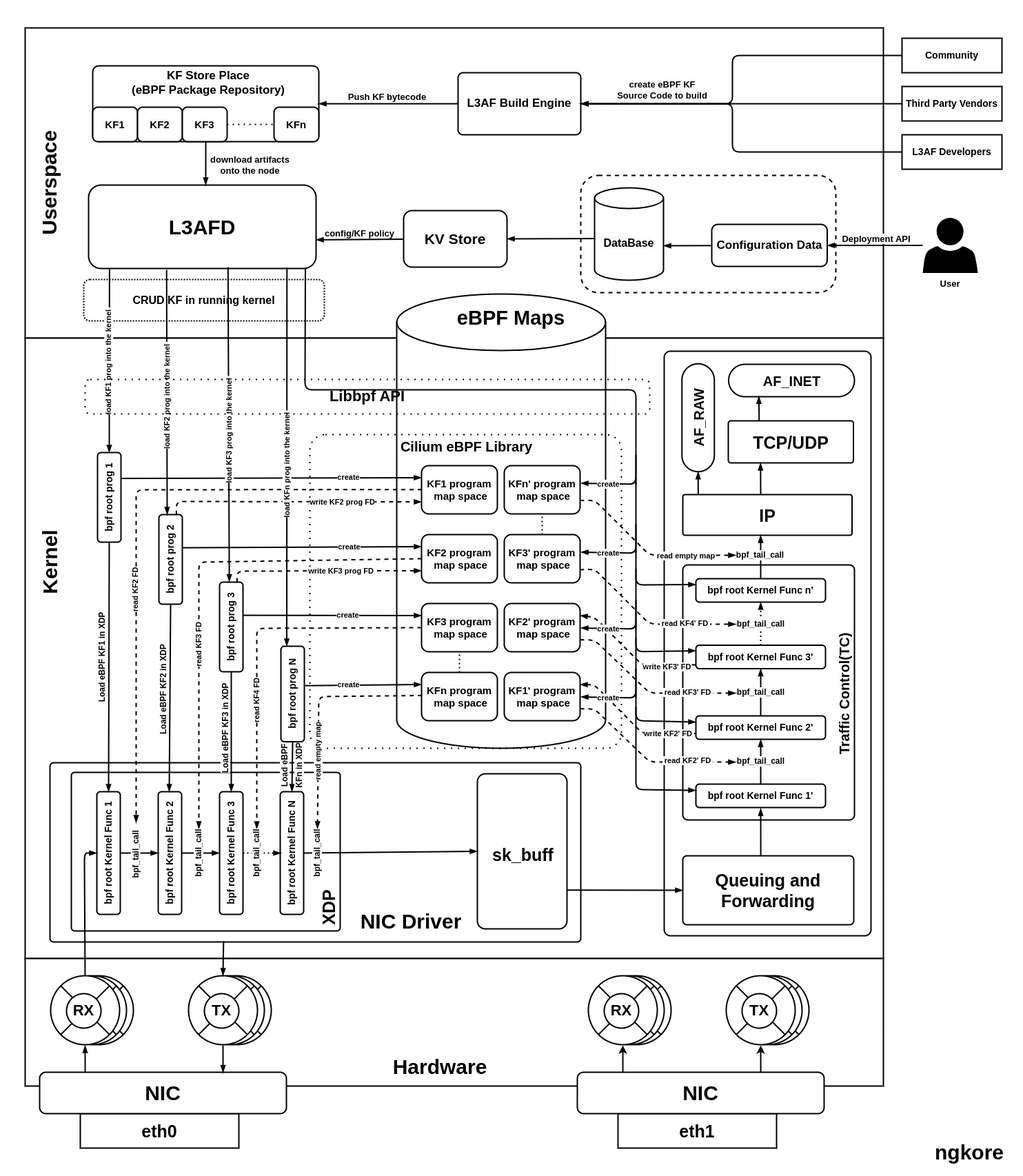
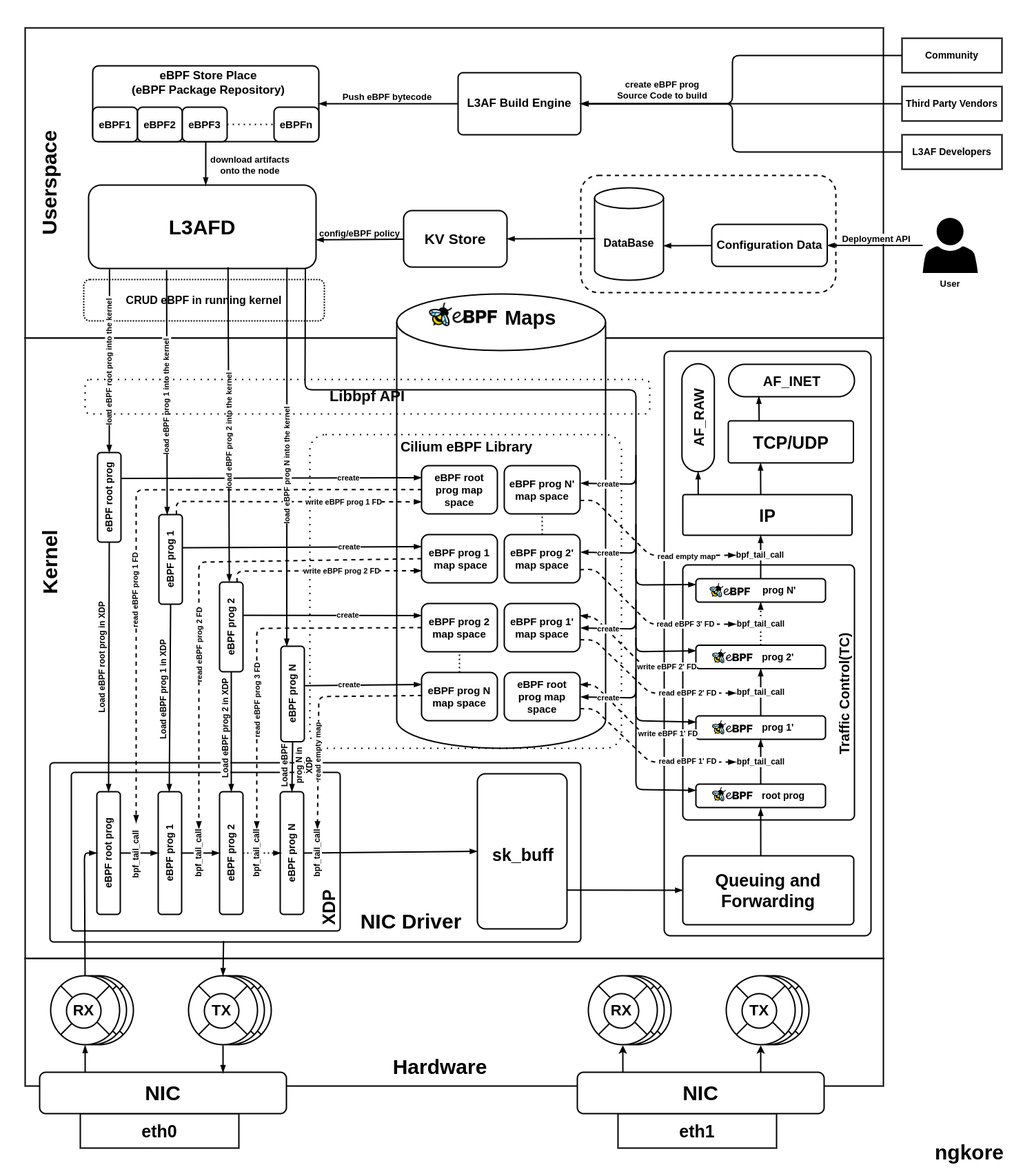
Deploying to gh-pages from @ NgKore47/docs@bac7bca4bccb19bd5e99053aab516099ff9b0988 🚀

diff --git a/searchindex.js b/searchindex.js
@@ -1,1 +1,1 @@
-Search.setIndex({"docnames": ["blogs/afxdp/afxdp", "blogs/afxdp/index", "blogs/dpdk/dpdk", "blogs/dpdk/index", "blogs/index", "blogs/sriov/index", "blogs/sriov/sriov", "help", "index", "l3af/index", "l3af/l3af", "operator/index", "operator/ngkoreOperator/index", "operator/ngkoreOperator/operator"], "filenames": ["blogs/afxdp/afxdp.rst", "blogs/afxdp/index.rst", "blogs/dpdk/dpdk.rst", "blogs/dpdk/index.rst", "blogs/index.rst", "blogs/sriov/index.rst", "blogs/sriov/sriov.rst", "help.rst", "index.rst", "l3af/index.rst", "l3af/l3af.rst", "operator/index.rst", "operator/ngkoreOperator/index.rst", "operator/ngkoreOperator/operator.rst"], "titles": ["AF_XDP", "AF_XDP", "DPDK", "DPDK", "Kernel Bypass Mechanisms", "SR-IOV", "SR-IOV", "Help", "ngKore Documentation!", "L3AF", "L3AF Integration with 5G-UPF", "5G Core Operator", "ngKore Operator", "ngKore Operator"], "terms": {"address": [0, 2, 6], "famili": 0, "express": [0, 6], "data": [0, 2, 6, 10, 13], "path": [0, 2, 10, 13], "socket": [0, 10], "i": [0, 2, 6, 10, 13], "high": [0, 2, 10, 13], "perform": [0, 2, 10, 13], "mechan": [0, 2, 8, 10, 13], "bypass": [0, 2, 8, 10], "tradit": [0, 2, 10], "kernel": [0, 2, 8, 10], "network": [0, 2, 6, 10, 13], "stack": [0, 2, 10], "enabl": [0, 2, 6, 10], "userspac": [0, 2], "process": [0, 2, 6, 10, 13], "directli": [0, 2, 10], "It": [0, 2, 6, 10, 13], "us": [0, 2, 6, 8, 10, 11, 12], "ebpf": [0, 10], "program": [0, 10], "hook": [0, 10], "share": 0, "memori": [0, 2, 6], "umem": 0, "effici": [0, 2, 10, 13], "transfer": [0, 2, 6], "between": [0, 2, 13], "reduc": [0, 2, 10, 13], "latenc": [0, 2, 10, 13], "improv": [0, 13], "throughput": [0, 2, 10], "task": [0, 2, 13], "To": [0, 2], "implement": [0, 2, 10, 13], "effect": [0, 10], "certain": 0, "level": [0, 2, 10], "featur": [0, 2, 6, 10, 13], "capabl": [0, 6, 10], "should": [0, 2, 6], "present": [0, 6], "your": [0, 13], "compat": [0, 2], "ensur": [0, 2, 6, 10, 13], "support": [0, 2, 6, 13], "driver": [0, 2, 6], "depend": [0, 13], "current": [0, 10], "broadcom": 0, "": [0, 2, 6, 10, 13], "bnxt": 0, "cavium": 0, "thunderx": 0, "intel": [0, 6], "ixgb": 0, "ixgbevf": 0, "i40": 0, "mellanox": 0, "mlx4": 0, "mlx5": 0, "netronom": 0, "nfp": 0, "qlogic": 0, "qede": 0, "queue": [0, 2, 6], "multipl": [0, 6, 10, 13], "The": [0, 2, 6, 10, 13], "number": [0, 6], "cpu": [0, 2, 6], "core": [0, 2, 8, 10], "avail": [0, 2, 13], "major": 0, "ar": [0, 2, 6, 10, 13], "main": [0, 10], "entri": 0, "point": [0, 2, 6, 10], "where": [0, 2, 6, 13], "focu": 0, "execut": [0, 10, 13], "earliest": 0, "possibl": [0, 10], "time": [0, 13], "after": [0, 2, 10], "receiv": [0, 2, 6], "vm": [0, 4, 5, 8], "lightweight": [0, 6], "regist": [0, 2], "base": [0, 2, 6, 10, 13], "respons": [0, 2, 10], "bytecod": 0, "also": [0, 2, 13], "jit": 0, "just": [0, 13], "In": [0, 2, 6, 10, 13], "compil": 0, "increas": [0, 10, 13], "convert": 0, "nativ": [0, 13], "machin": [0, 6], "code": [0, 13], "specif": [0, 2, 10, 13], "architectur": [0, 8, 9], "bpf": 0, "map": [0, 2, 10], "These": [0, 2, 6, 10, 13], "kei": [0, 2, 10, 13], "valu": [0, 10, 13], "store": [0, 2, 6, 10, 13], "serv": [0, 10], "primari": [0, 6, 10], "commun": [0, 10], "channel": 0, "run": [0, 2, 6, 10, 13], "differ": [0, 2, 13], "locat": [0, 2], "can": [0, 2, 6, 10, 13], "variou": [0, 10, 13], "purpos": 0, "configur": [0, 2, 6, 10, 13], "statist": 0, "connect": [0, 10], "track": [0, 2, 10], "state": [0, 13], "inform": [0, 6, 13], "verifi": [0, 10], "critic": [0, 10, 13], "static": 0, "befor": [0, 2], "thei": [0, 2, 6, 13], "load": [0, 10, 13], "check": [0, 2], "whether": 0, "safe": [0, 13], "safeti": 0, "correct": [0, 13], "doesn": 0, "t": [0, 6], "have": [0, 2, 6, 13], "ani": [0, 2, 7, 10, 13], "loop": [0, 13], "access": [0, 2, 6, 13], "out": [0, 6, 10, 13], "bound": [0, 2], "adher": 0, "other": [0, 2, 6, 13], "constraint": 0, "loader": 0, "user": [0, 2, 10, 13], "space": [0, 2, 6, 10], "tool": 0, "iproute2": 0, "arriv": [0, 2, 6, 10], "temporarili": [0, 2, 6], "its": [0, 2, 6, 13], "intern": [0, 2, 6], "sram": [0, 2], "dedic": [0, 2, 10], "dram": [0, 2], "normal": [0, 13], "e": [0, 2], "g": [0, 2], "error": [0, 2, 13], "basic": [0, 2], "filter": [0, 2, 10], "creat": [0, 2, 6, 10, 13], "descriptor": [0, 2, 6, 10], "size": [0, 2], "buffer": [0, 2, 6], "place": [0, 2, 6], "them": [0, 2, 6], "rx": [0, 2, 6], "ring": [0, 2, 6], "pass": [0, 10], "onto": 0, "fetch": [0, 13], "take": [0, 13], "decis": [0, 10], "decid": 0, "an": [0, 6, 10, 13], "continu": [0, 2, 13], "through": [0, 2, 10], "If": [0, 13], "dma": [0, 2, 6], "region": [0, 2], "first": [0, 10, 13], "read": 0, "empti": [0, 2], "chunk": 0, "fill": 0, "provid": [0, 2, 10, 13], "retriev": [0, 2, 10, 13], "prepar": [0, 2, 6], "transmiss": [0, 2, 6], "design": [0, 10, 13], "within": [0, 6], "correspond": [0, 2, 6, 13], "tx": [0, 2, 6], "transmit": [0, 2, 6], "associ": [0, 2, 6, 10, 13], "respect": [0, 10], "direct": [0, 2, 6, 10], "subsequ": 0, "now": [0, 6, 13], "ad": [0, 2], "complet": [0, 6], "upon": 0, "possess": 0, "determin": 0, "appropri": [0, 2, 6], "destin": [0, 6, 10], "forward": [0, 6, 10], "which": [0, 2, 6, 10, 13], "intend": 0, "hardwar": [1, 3, 4, 5, 8, 13], "requir": [1, 3, 4, 5, 8, 10, 13], "compon": [1, 3, 4, 8, 10, 13], "xdp": [1, 4, 8, 10], "system": [1, 2, 4, 6, 8, 10, 13], "packet": [1, 3, 4, 5, 8, 10], "flow": [1, 3, 4, 5, 8], "from": [1, 3, 4, 5, 8, 10, 13], "nic": [1, 3, 4, 5, 8, 10], "applic": [1, 3, 4, 8, 10, 13], "plane": [2, 10], "develop": [2, 10], "kit": 2, "toolkit": 2, "set": [2, 13], "librari": [2, 10], "pmd": 2, "help": [2, 8, 13], "u": [2, 8, 9, 13], "attend": 2, "interact": [2, 13], "achiev": 2, "low": [2, 13], "howev": [2, 13], "scenario": 2, "need": [2, 6, 10, 13], "crucial": [2, 6, 10, 13], "handl": [2, 6, 10, 13], "those": [2, 13], "sever": [2, 13], "necessari": [2, 6, 10, 13], "proper": 2, "function": [2, 6, 10, 13], "interfac": [2, 10, 13], "card": 2, "detach": 2, "must": [2, 6], "thi": [2, 6, 10, 13], "allow": [2, 6, 10, 13], "control": [2, 6, 10, 13], "over": 2, "without": [2, 13], "interfer": 2, "attach": 2, "vfio": 2, "pci": [2, 6], "igb_uio": 2, "uio_pci_gener": 2, "overhead": [2, 10], "context": [2, 13], "switch": [2, 6], "interrupt": [2, 6], "manag": [2, 6, 10, 13], "numa": 2, "non": 2, "uniform": 2, "consider": 2, "avoid": [2, 10], "content": [2, 10], "best": 2, "practic": 2, "assign": 2, "pin": 2, "isol": [2, 6, 13], "alloc": [2, 13], "same": [2, 6, 13], "node": [2, 13], "minim": [2, 10], "maxim": 2, "hugepag": 2, "A": [2, 13], "portion": 2, "reserv": 2, "dure": [2, 13], "boot": 2, "larger": 2, "page": 2, "smaller": 2, "larg": 2, "area": 2, "fragment": 2, "oper": [2, 6, 8], "tlb": 2, "lookup": 2, "etc": [2, 13], "6": 2, "iommu": [2, 6], "input": 2, "output": 2, "unit": [2, 6], "For": [2, 7], "bio": [2, 6], "protect": 2, "devic": [2, 6], "secur": [2, 6, 13], "short": 2, "get": 2, "onli": [2, 6, 10], "well": 2, "scope": 2, "physic": [2, 6, 13], "addit": 2, "compris": 2, "essenti": [2, 10, 13], "most": 2, "importantli": 2, "includ": [2, 10, 13], "environ": [2, 6], "eal": 2, "mbuf": 2, "pool": [2, 6], "mempool": 2, "timer": 2, "up": [2, 13], "runtim": [2, 6], "gener": [2, 6, 10], "underli": [2, 6], "o": [2, 6, 10], "resourc": [2, 6, 13], "metadata": 2, "throughout": [2, 10], "pipelin": 2, "smooth": 2, "pre": [2, 10, 13], "fix": 2, "insid": 2, "object": [2, 13], "consist": [2, 13], "fast": [2, 10], "poll": 2, "mode": 2, "2": [2, 6], "head": 2, "rdh": 2, "tail": 2, "rdt": 2, "statu": 2, "mmio": 2, "engin": 2, "storag": [2, 6, 13], "host": [2, 6], "bar": 2, "initi": [2, 6, 10, 13], "both": 2, "posit": 2, "onc": [2, 6, 13], "specifi": [2, 6, 13], "increment": 2, "everi": 2, "new": [2, 10, 13], "constantli": [2, 13], "when": [2, 10, 13], "found": 2, "1": 2, "next": 2, "long": 2, "than": [2, 6], "equal": 2, "mean": [2, 13], "ha": [2, 6, 10], "all": [2, 6], "involv": [2, 10, 13], "incom": [2, 10], "huge": 2, "keep": [2, 10], "method": 2, "consum": 2, "signific": 2, "amount": 2, "call": [2, 10, 13], "pthread": 2, "typic": [2, 10], "multi": 2, "each": [2, 6, 10, 13], "one": [2, 6], "more": [2, 6, 10, 13], "send": [2, 6, 10], "contain": [2, 4, 5, 8, 10, 13], "tdt": 2, "updat": [2, 13], "tdh": 2, "detect": [2, 6, 13], "checksum": 2, "vlan": [2, 6], "tag": [2, 6], "final": [2, 10], "abstract": [3, 4, 8], "layer": [3, 4, 6, 8], "af_xdp": [4, 8, 10], "dpdk": [4, 8], "sr": [4, 8], "iov": [4, 8], "singl": 6, "root": 6, "virtual": [6, 13], "pcie": 6, "adapt": 6, "itself": [6, 13], "independ": 6, "pf": 6, "vf": 6, "repres": [6, 13], "hypervisor": 6, "addition": 6, "easili": 6, "limit": 6, "instanc": [6, 13], "subset": 6, "veri": 6, "similar": [6, 10], "lack": 6, "treat": 6, "like": [6, 13], "fulli": 6, "though": 6, "given": 6, "uniqu": 6, "request": 6, "id": 6, "rid": 6, "incompet": 6, "properli": 6, "abil": 6, "move": 6, "themselv": 6, "cannot": 6, "would": [6, 13], "chang": [6, 13], "thu": [6, 13], "motherboard": 6, "mai": [6, 13], "processor": 6, "technologi": [6, 10], "vt": 6, "d": 6, "amd": 6, "vi": 6, "correctli": 6, "further": [6, 10], "sort": 6, "classifi": 6, "l2": 6, "sorter": 6, "mac": 6, "header": 6, "identifi": 6, "target": 6, "trigger": [6, 13], "defin": [6, 10, 13], "rather": 6, "remap": 6, "signal": 6, "indic": 6, "been": [6, 10], "notifi": 6, "about": [6, 8, 9], "goe": [6, 13], "k8": 6, "instead": [6, 13], "add": [6, 13], "sourc": 6, "whose": 6, "ethernet": 6, "link": 6, "queri": 7, "pleas": 7, "contact": 7, "info": 7, "ngkore": [7, 10, 11], "com": 7, "5g": [8, 9, 13], "benefit": [8, 11, 12], "crd": [8, 11, 12], "cr": [8, 11, 12], "import": [8, 11, 12], "l3af": 8, "integr": [8, 9, 13], "upf": [8, 9, 13], "fifth": 10, "wireless": 10, "promis": [10, 13], "revolution": 10, "wai": [10, 13], "we": [10, 13], "One": [10, 13], "infrastructur": [10, 13], "traffic": [10, 13], "As": 10, "demand": 10, "faster": 10, "reliabl": [10, 13], "grow": 10, "optim": [10, 13], "becom": 10, "paramount": 10, "enter": 10, "orchestr": 10, "extend": [10, 13], "berkelei": 10, "under": 10, "linux": 10, "foundat": 10, "offer": 10, "power": [10, 13], "solut": 10, "enhanc": 10, "By": [10, 13], "unlock": 10, "unleash": 10, "true": 10, "potenti": 10, "blog": 10, "post": 10, "delv": 10, "excit": 10, "world": 10, "explor": 10, "how": 10, "experi": 10, "discuss": 10, "aspect": 10, "shed": 10, "light": 10, "incred": 10, "so": [10, 13], "let": [10, 13], "dive": 10, "discov": 10, "transform": 10, "ecosystem": [10, 13], "api": [10, 13], "start": [10, 13], "deploy": [10, 13], "kf": 10, "tc": 10, "polici": 10, "format": 10, "databas": 10, "futur": 10, "l3afd": 10, "leverag": 10, "kv": 10, "quickli": 10, "download": 10, "built": [10, 13], "repositori": [10, 13], "packag": 10, "divers": [10, 13], "prior": 10, "instal": 10, "role": [10, 13], "libbpf": 10, "file": [10, 13], "previou": 10, "sequenc": 10, "separ": 10, "carri": 10, "cilium": 10, "visibl": 10, "rest": [10, 13], "invok": 10, "via": 10, "bpf_tail_cal": 10, "sequenti": 10, "occur": 10, "deliveri": 10, "sent": 10, "plai": [10, 13], "vital": 10, "Its": 10, "enforc": 10, "deliv": 10, "desir": [10, 13], "qo": 10, "qualiti": 10, "servic": [10, 13], "inspect": 10, "even": [10, 13], "dpi": 10, "deep": [10, 13], "analyz": 10, "make": [10, 13], "criteria": 10, "moreov": 10, "advanc": 10, "slice": [10, 13], "here": 10, "highli": 10, "flexibl": [10, 13], "manipul": 10, "facilit": 10, "conduct": 10, "part": [10, 13], "interconnect": 10, "dispatch": 10, "entir": [10, 13], "framework": 10, "govern": 10, "procedur": [10, 13], "form": 10, "basi": 10, "pathwai": 10, "result": 10, "significantli": [10, 13], "overal": 10, "research": 10, "academ": 10, "innov": 10, "complex": [10, 13], "challeng": 10, "6g": 10, "tirelessli": 10, "field": [10, 13], "ran": 10, "scale": [10, 13], "acceler": 10, "cloud": 10, "written": 10, "shankar": 10, "mente": 10, "lfn": 10, "window": 10, "custom": 13, "definit": 13, "done": 13, "sdk": 13, "helm": 13, "chart": 13, "blueprint": 13, "deploi": 13, "want": 13, "creation": 13, "local": 13, "project": 13, "build": 13, "docker": 13, "imag": 13, "push": 13, "dockerhub": 13, "registri": 13, "pull": 13, "kubernet": 13, "cluster": 13, "appli": 13, "manifest": 13, "readi": 13, "do": 13, "kubectl": 13, "yaml": 13, "our": 13, "reconcili": 13, "watch": 13, "action": 13, "reflect": 13, "modifi": 13, "spec": 13, "releas": 13, "doe": 13, "origin": 13, "softwar": 13, "extens": 13, "autom": 13, "human": 13, "who": 13, "follow": 13, "principl": 13, "name": 13, "concept": 13, "you": 13, "introduc": 13, "type": 13, "understand": 13, "monitor": 13, "compar": 13, "actual": 13, "match": 13, "step": 13, "simplifi": 13, "nf": 13, "pod": 13, "configmap": 13, "auto": 13, "paramet": 13, "lifecycl": 13, "5gnf": 13, "upgrad": 13, "rollback": 13, "backup": 13, "restor": 13, "chanc": 13, "failur": 13, "someth": 13, "wrong": 13, "might": 13, "restart": 13, "fail": 13, "failov": 13, "case": 13, "issu": 13, "sinc": 13, "especi": 13, "observ": 13, "expos": 13, "metric": 13, "log": 13, "alert": 13, "mesh": 13, "With": 13, "amf": 13, "smf": 13, "ausf": 13, "nrf": 13, "udm": 13, "less": 13, "prone": 13, "scalabl": 13, "decommiss": 13, "dai": 13, "balanc": 13, "util": 13, "maintain": 13, "end": 13, "tailor": 13, "fulfil": 13, "easi": 13, "fault": 13, "automat": 13, "recreat": 13, "interoper": 13, "vendor": 13, "standard": 13, "across": 13, "roll": 13, "assur": 13, "real": 13, "diagnost": 13, "proactiv": 13, "mainten": 13, "advantag": 13, "telecommun": 13, "mani": 13, "lead": 13, "cost": 13, "stand": 13, "come": 13, "sometim": 13, "That": 13, "own": 13, "behav": 13, "becaus": 13, "fit": 13, "while": 13, "still": 13, "cli": 13, "ui": 13, "structur": 13, "suit": 13, "kind": 13, "view": 13, "delet": 13, "pivot": 13, "nfv": 13, "heavili": 13, "reli": 13, "excel": 13, "platform": 13, "vnf": 13, "rout": 13, "often": 13, "rule": 13, "particularli": 13, "volum": 13, "schedul": 13, "meet": 13, "rate": 13, "wide": 13, "rang": 13, "summari": 13, "better": 13}, "objects": {}, "objtypes": {}, "objnames": {}, "titleterms": {"af_xdp": [0, 1], "hardwar": [0, 2, 6], "requir": [0, 2, 6], "compon": [0, 2], "xdp": 0, "system": 0, "packet": [0, 2, 6], "flow": [0, 2, 6], "from": [0, 2, 6], "nic": [0, 2, 6], "applic": [0, 2], "dpdk": [2, 3], "abstract": 2, "layer": 2, "kernel": 4, "bypass": 4, "mechan": 4, "sr": [5, 6], "iov": [5, 6], "vm": 6, "contain": 6, "help": 7, "ngkore": [8, 12, 13], "document": 8, "l3af": [9, 10], "integr": 10, "5g": [10, 11], "upf": 10, "architectur": 10, "about": 10, "u": 10, "core": 11, "oper": [11, 12, 13], "benefit": 13, "us": 13, "crd": 13, "cr": 13, "import": 13}, "envversion": {"sphinx.domains.c": 2, "sphinx.domains.changeset": 1, "sphinx.domains.citation": 1, "sphinx.domains.cpp": 8, "sphinx.domains.index": 1, "sphinx.domains.javascript": 2, "sphinx.domains.math": 2, "sphinx.domains.python": 3, "sphinx.domains.rst": 2, "sphinx.domains.std": 2, "sphinx.ext.intersphinx": 1, "sphinx.ext.todo": 2, "sphinx.ext.viewcode": 1, "sphinx": 57}, "alltitles": {"AF_XDP": [[0, "af-xdp"], [1, "af-xdp"]], "Hardware Requirements": [[0, "hardware-requirements"], [2, "hardware-requirements"], [6, "hardware-requirements"]], "Components of XDP System": [[0, "components-of-xdp-system"]], "Packet Flow": [[0, "packet-flow"], [2, "packet-flow"], [6, "packet-flow"]], "From NIC to the Application": [[0, "from-nic-to-the-application"], [2, "from-nic-to-the-application"]], "From Application to the NIC": [[0, "from-application-to-the-nic"], [2, "from-application-to-the-nic"]], "DPDK": [[2, "dpdk"], [3, "dpdk"]], "Components of DPDK Abstraction Layer": [[2, "components-of-dpdk-abstraction-layer"]], "Kernel Bypass Mechanisms": [[4, "kernel-bypass-mechanisms"]], "SR-IOV": [[5, "sr-iov"], [6, "sr-iov"]], "From NIC to the VM/Container": [[6, "from-nic-to-the-vm-container"]], "From VM/Container to the NIC": [[6, "from-vm-container-to-the-nic"]], "Help": [[7, "help"]], "ngKore Documentation!": [[8, "ngkore-documentation"]], "L3AF": [[9, "l3af"]], "L3AF Integration with 5G-UPF": [[10, "l3af-integration-with-5g-upf"]], "L3AF Architecture": [[10, "l3af-architecture"]], "5G UPF": [[10, "g-upf"]], "L3AF Integration with 5G UPF": [[10, "id1"]], "About Us!": [[10, "about-us"]], "5G Core Operator": [[11, "g-core-operator"]], "ngKore Operator": [[12, "ngkore-operator"], [13, "ngkore-operator"]], "Operator": [[13, "operator"]], "Benefits of Operator": [[13, "benefits-of-operator"]], "Use of Operator": [[13, "use-of-operator"]], "CRD": [[13, "crd"]], "CR": [[13, "cr"]], "Importance of CRD and CR": [[13, "importance-of-crd-and-cr"]]}, "indexentries": {}})
+Search.setIndex({"docnames": ["blogs/afxdp/afxdp", "blogs/afxdp/index", "blogs/dpdk/dpdk", "blogs/dpdk/index", "blogs/index", "blogs/sriov/index", "blogs/sriov/sriov", "help", "index", "l3af/index", "l3af/l3af", "operator/index", "operator/ngkoreOperator/index", "operator/ngkoreOperator/operator"], "filenames": ["blogs/afxdp/afxdp.rst", "blogs/afxdp/index.rst", "blogs/dpdk/dpdk.rst", "blogs/dpdk/index.rst", "blogs/index.rst", "blogs/sriov/index.rst", "blogs/sriov/sriov.rst", "help.rst", "index.rst", "l3af/index.rst", "l3af/l3af.rst", "operator/index.rst", "operator/ngkoreOperator/index.rst", "operator/ngkoreOperator/operator.rst"], "titles": ["AF_XDP", "AF_XDP", "DPDK", "DPDK", "Kernel Bypass Mechanisms", "SR-IOV", "SR-IOV", "Help", "ngKore Documentation!", "L3AF", "L3AF Integration with 5G-UPF", "5G Core Operator", "ngKore Operator", "ngKore Operator"], "terms": {"address": [0, 2, 6], "famili": 0, "express": [0, 6], "data": [0, 2, 6, 10, 13], "path": [0, 2, 10, 13], "socket": [0, 10], "i": [0, 2, 6, 10, 13], "high": [0, 2, 10, 13], "perform": [0, 2, 10, 13], "mechan": [0, 2, 8, 10, 13], "bypass": [0, 2, 8, 10], "tradit": [0, 2, 10], "kernel": [0, 2, 8, 10], "network": [0, 2, 6, 10, 13], "stack": [0, 2, 10], "enabl": [0, 2, 6, 10], "userspac": [0, 2], "process": [0, 2, 6, 10, 13], "directli": [0, 2, 10], "It": [0, 2, 6, 10, 13], "us": [0, 2, 6, 8, 10, 11, 12], "ebpf": [0, 10], "program": [0, 10], "hook": [0, 10], "share": 0, "memori": [0, 2, 6], "umem": 0, "effici": [0, 2, 10, 13], "transfer": [0, 2, 6], "between": [0, 2, 13], "reduc": [0, 2, 10, 13], "latenc": [0, 2, 10, 13], "improv": [0, 13], "throughput": [0, 2, 10], "task": [0, 2, 13], "To": [0, 2], "implement": [0, 2, 10, 13], "effect": [0, 10], "certain": 0, "level": [0, 2, 10], "featur": [0, 2, 6, 10, 13], "capabl": [0, 6, 10], "should": [0, 2, 6], "present": [0, 6], "your": [0, 13], "compat": [0, 2], "ensur": [0, 2, 6, 10, 13], "support": [0, 2, 6, 13], "driver": [0, 2, 6], "depend": [0, 13], "current": [0, 10], "broadcom": 0, "": [0, 2, 6, 10, 13], "bnxt": 0, "cavium": 0, "thunderx": 0, "intel": [0, 6], "ixgb": 0, "ixgbevf": 0, "i40": 0, "mellanox": 0, "mlx4": 0, "mlx5": 0, "netronom": 0, "nfp": 0, "qlogic": 0, "qede": 0, "queue": [0, 2, 6], "multipl": [0, 6, 10, 13], "The": [0, 2, 6, 10, 13], "number": [0, 6], "cpu": [0, 2, 6], "core": [0, 2, 8, 10], "avail": [0, 2, 13], "major": 0, "ar": [0, 2, 6, 10, 13], "main": [0, 10], "entri": 0, "point": [0, 2, 6, 10], "where": [0, 2, 6, 13], "focu": 0, "execut": [0, 10, 13], "earliest": 0, "possibl": [0, 10], "time": [0, 13], "after": [0, 2, 10], "receiv": [0, 2, 6], "vm": [0, 4, 5, 8], "lightweight": [0, 6], "regist": [0, 2], "base": [0, 2, 6, 10, 13], "respons": [0, 2, 10], "bytecod": 0, "also": [0, 2, 13], "jit": 0, "just": [0, 13], "In": [0, 2, 6, 10, 13], "compil": 0, "increas": [0, 10, 13], "convert": 0, "nativ": [0, 13], "machin": [0, 6], "code": [0, 13], "specif": [0, 2, 10, 13], "architectur": [0, 8, 9], "bpf": 0, "map": [0, 2, 10], "These": [0, 2, 6, 10, 13], "kei": [0, 2, 10, 13], "valu": [0, 10, 13], "store": [0, 2, 6, 10, 13], "serv": [0, 10], "primari": [0, 6, 10], "commun": [0, 10], "channel": 0, "run": [0, 2, 6, 10, 13], "differ": [0, 2, 13], "locat": [0, 2], "can": [0, 2, 6, 10, 13], "variou": [0, 10, 13], "purpos": 0, "configur": [0, 2, 6, 10, 13], "statist": 0, "connect": [0, 10], "track": [0, 2, 10], "state": [0, 13], "inform": [0, 6, 13], "verifi": [0, 10], "critic": [0, 10, 13], "static": 0, "befor": [0, 2], "thei": [0, 2, 6, 13], "load": [0, 10, 13], "check": [0, 2], "whether": 0, "safe": [0, 13], "safeti": 0, "correct": [0, 13], "doesn": 0, "t": [0, 6], "have": [0, 2, 6, 13], "ani": [0, 2, 7, 10, 13], "loop": [0, 13], "access": [0, 2, 6, 13], "out": [0, 6, 10, 13], "bound": [0, 2], "adher": 0, "other": [0, 2, 6, 13], "constraint": 0, "loader": 0, "user": [0, 2, 10, 13], "space": [0, 2, 6, 10], "tool": 0, "iproute2": 0, "arriv": [0, 2, 6, 10], "temporarili": [0, 2, 6], "its": [0, 2, 6, 13], "intern": [0, 2, 6], "sram": [0, 2], "dedic": [0, 2, 10], "dram": [0, 2], "normal": [0, 13], "e": [0, 2], "g": [0, 2], "error": [0, 2, 13], "basic": [0, 2], "filter": [0, 2, 10], "creat": [0, 2, 6, 10, 13], "descriptor": [0, 2, 6, 10], "size": [0, 2], "buffer": [0, 2, 6], "place": [0, 2, 6], "them": [0, 2, 6], "rx": [0, 2, 6], "ring": [0, 2, 6], "pass": [0, 10], "onto": 0, "fetch": [0, 13], "take": [0, 13], "decis": [0, 10], "decid": 0, "an": [0, 6, 10, 13], "continu": [0, 2, 13], "through": [0, 2, 10], "If": [0, 13], "dma": [0, 2, 6], "region": [0, 2], "first": [0, 10, 13], "read": 0, "empti": [0, 2], "chunk": 0, "fill": 0, "provid": [0, 2, 10, 13], "retriev": [0, 2, 10, 13], "prepar": [0, 2, 6], "transmiss": [0, 2, 6], "design": [0, 10, 13], "within": [0, 6], "correspond": [0, 2, 6, 13], "tx": [0, 2, 6], "transmit": [0, 2, 6], "associ": [0, 2, 6, 10, 13], "respect": [0, 10], "direct": [0, 2, 6, 10], "subsequ": 0, "now": [0, 6, 13], "ad": [0, 2], "complet": [0, 6], "upon": 0, "possess": 0, "determin": 0, "appropri": [0, 2, 6], "destin": [0, 6, 10], "forward": [0, 6, 10], "which": [0, 2, 6, 10, 13], "intend": 0, "hardwar": [1, 3, 4, 5, 8, 13], "requir": [1, 3, 4, 5, 8, 10, 13], "compon": [1, 3, 4, 8, 10, 13], "xdp": [1, 4, 8, 10], "system": [1, 2, 4, 6, 8, 10, 13], "packet": [1, 3, 4, 5, 8, 10], "flow": [1, 3, 4, 5, 8], "from": [1, 3, 4, 5, 8, 10, 13], "nic": [1, 3, 4, 5, 8, 10], "applic": [1, 3, 4, 8, 10, 13], "plane": [2, 10], "develop": [2, 10], "kit": 2, "toolkit": 2, "set": [2, 13], "librari": [2, 10], "pmd": 2, "help": [2, 8, 13], "u": [2, 8, 9, 13], "attend": 2, "interact": [2, 13], "achiev": 2, "low": [2, 13], "howev": [2, 13], "scenario": 2, "need": [2, 6, 10, 13], "crucial": [2, 6, 10, 13], "handl": [2, 6, 10, 13], "those": [2, 13], "sever": [2, 13], "necessari": [2, 6, 10, 13], "proper": 2, "function": [2, 6, 10, 13], "interfac": [2, 10, 13], "card": 2, "detach": 2, "must": [2, 6], "thi": [2, 6, 10, 13], "allow": [2, 6, 10, 13], "control": [2, 6, 10, 13], "over": 2, "without": [2, 13], "interfer": 2, "attach": 2, "vfio": 2, "pci": [2, 6], "igb_uio": 2, "uio_pci_gener": 2, "overhead": [2, 10], "context": [2, 13], "switch": [2, 6], "interrupt": [2, 6], "manag": [2, 6, 10, 13], "numa": 2, "non": 2, "uniform": 2, "consider": 2, "avoid": [2, 10], "content": [2, 10], "best": 2, "practic": 2, "assign": 2, "pin": 2, "isol": [2, 6, 13], "alloc": [2, 13], "same": [2, 6, 13], "node": [2, 13], "minim": [2, 10], "maxim": 2, "hugepag": 2, "A": [2, 13], "portion": 2, "reserv": 2, "dure": [2, 13], "boot": 2, "larger": 2, "page": 2, "smaller": 2, "larg": 2, "area": 2, "fragment": 2, "oper": [2, 6, 8], "tlb": 2, "lookup": 2, "etc": [2, 13], "6": 2, "iommu": [2, 6], "input": 2, "output": 2, "unit": [2, 6], "For": [2, 7], "bio": [2, 6], "protect": 2, "devic": [2, 6], "secur": [2, 6, 13], "short": 2, "get": 2, "onli": [2, 6, 10], "well": 2, "scope": 2, "physic": [2, 6, 13], "addit": 2, "compris": 2, "essenti": [2, 10, 13], "most": 2, "importantli": 2, "includ": [2, 10, 13], "environ": [2, 6], "eal": 2, "mbuf": 2, "pool": [2, 6], "mempool": 2, "timer": 2, "up": [2, 13], "runtim": [2, 6], "gener": [2, 6, 10], "underli": [2, 6], "o": [2, 6, 10], "resourc": [2, 6, 13], "metadata": 2, "throughout": [2, 10], "pipelin": 2, "smooth": 2, "pre": [2, 10, 13], "fix": 2, "insid": 2, "object": [2, 13], "consist": [2, 13], "fast": [2, 10], "poll": 2, "mode": 2, "2": [2, 6], "head": 2, "rdh": 2, "tail": 2, "rdt": 2, "statu": 2, "mmio": 2, "engin": 2, "storag": [2, 6, 13], "host": [2, 6], "bar": 2, "initi": [2, 6, 10, 13], "both": 2, "posit": 2, "onc": [2, 6, 13], "specifi": [2, 6, 13], "increment": 2, "everi": 2, "new": [2, 10, 13], "constantli": [2, 13], "when": [2, 10, 13], "found": 2, "1": 2, "next": 2, "long": 2, "than": [2, 6], "equal": 2, "mean": [2, 13], "ha": [2, 6, 10], "all": [2, 6], "involv": [2, 10, 13], "incom": [2, 10], "huge": 2, "keep": [2, 10], "method": 2, "consum": 2, "signific": 2, "amount": 2, "call": [2, 10, 13], "pthread": 2, "typic": [2, 10], "multi": 2, "each": [2, 6, 10, 13], "one": [2, 6], "more": [2, 6, 10, 13], "send": [2, 6, 10], "contain": [2, 4, 5, 8, 10, 13], "tdt": 2, "updat": [2, 13], "tdh": 2, "detect": [2, 6, 13], "checksum": 2, "vlan": [2, 6], "tag": [2, 6], "final": [2, 10], "abstract": [3, 4, 8], "layer": [3, 4, 6, 8], "af_xdp": [4, 8, 10], "dpdk": [4, 8], "sr": [4, 8], "iov": [4, 8], "singl": 6, "root": 6, "virtual": [6, 13], "pcie": 6, "adapt": 6, "itself": [6, 13], "independ": 6, "pf": 6, "vf": 6, "repres": [6, 13], "hypervisor": 6, "addition": 6, "easili": 6, "limit": 6, "instanc": [6, 13], "subset": 6, "veri": 6, "similar": [6, 10], "lack": 6, "treat": 6, "like": [6, 13], "fulli": 6, "though": 6, "given": 6, "uniqu": 6, "request": 6, "id": 6, "rid": 6, "incompet": 6, "properli": 6, "abil": 6, "move": 6, "themselv": 6, "cannot": 6, "would": [6, 13], "chang": [6, 13], "thu": [6, 13], "motherboard": 6, "mai": [6, 13], "processor": 6, "technologi": [6, 10], "vt": 6, "d": 6, "amd": 6, "vi": 6, "correctli": 6, "further": [6, 10], "sort": 6, "classifi": 6, "l2": 6, "sorter": 6, "mac": 6, "header": 6, "identifi": 6, "target": 6, "trigger": [6, 13], "defin": [6, 10, 13], "rather": 6, "remap": 6, "signal": 6, "indic": 6, "been": [6, 10], "notifi": 6, "about": [6, 8, 9], "goe": [6, 13], "k8": 6, "instead": [6, 13], "add": [6, 13], "sourc": 6, "whose": 6, "ethernet": 6, "link": 6, "queri": 7, "pleas": 7, "contact": 7, "info": 7, "ngkore": [7, 10, 11], "com": 7, "5g": [8, 9, 13], "benefit": [8, 11, 12], "crd": [8, 11, 12], "cr": [8, 11, 12], "import": [8, 11, 12], "l3af": 8, "integr": [8, 9, 13], "upf": [8, 9, 13], "fifth": 10, "wireless": 10, "promis": [10, 13], "revolution": 10, "wai": [10, 13], "we": [10, 13], "One": [10, 13], "infrastructur": [10, 13], "traffic": [10, 13], "As": 10, "demand": 10, "faster": 10, "reliabl": [10, 13], "grow": 10, "optim": [10, 13], "becom": 10, "paramount": 10, "enter": 10, "orchestr": 10, "extend": [10, 13], "berkelei": 10, "under": 10, "linux": 10, "foundat": 10, "offer": 10, "power": [10, 13], "solut": 10, "enhanc": 10, "By": [10, 13], "unlock": 10, "unleash": 10, "true": 10, "potenti": 10, "blog": 10, "post": 10, "delv": 10, "excit": 10, "world": 10, "explor": 10, "how": 10, "experi": 10, "discuss": 10, "aspect": 10, "shed": 10, "light": 10, "incred": 10, "so": [10, 13], "let": [10, 13], "dive": 10, "discov": 10, "transform": 10, "ecosystem": [10, 13], "api": [10, 13], "start": [10, 13], "deploy": [10, 13], "tc": 10, "polici": 10, "format": 10, "databas": 10, "futur": 10, "l3afd": 10, "leverag": 10, "kv": 10, "quickli": 10, "download": 10, "built": [10, 13], "repositori": [10, 13], "packag": 10, "divers": [10, 13], "prior": 10, "instal": 10, "role": [10, 13], "libbpf": 10, "file": [10, 13], "previou": 10, "sequenc": 10, "separ": 10, "carri": 10, "cilium": 10, "visibl": 10, "rest": [10, 13], "invok": 10, "via": 10, "bpf_tail_cal": 10, "sequenti": 10, "occur": 10, "deliveri": 10, "sent": 10, "plai": [10, 13], "vital": 10, "Its": 10, "enforc": 10, "deliv": 10, "desir": [10, 13], "qo": 10, "qualiti": 10, "servic": [10, 13], "inspect": 10, "even": [10, 13], "dpi": 10, "deep": [10, 13], "analyz": 10, "make": [10, 13], "criteria": 10, "moreov": 10, "advanc": 10, "slice": [10, 13], "here": 10, "highli": 10, "flexibl": [10, 13], "manipul": 10, "facilit": 10, "conduct": 10, "part": [10, 13], "interconnect": 10, "dispatch": 10, "entir": [10, 13], "framework": 10, "govern": 10, "procedur": [10, 13], "form": 10, "basi": 10, "pathwai": 10, "result": 10, "significantli": [10, 13], "overal": 10, "research": 10, "academ": 10, "innov": 10, "complex": [10, 13], "challeng": 10, "6g": 10, "tirelessli": 10, "field": [10, 13], "ran": 10, "scale": [10, 13], "acceler": 10, "cloud": 10, "written": 10, "shankar": 10, "mente": 10, "lfn": 10, "window": 10, "custom": 13, "definit": 13, "done": 13, "sdk": 13, "helm": 13, "chart": 13, "blueprint": 13, "deploi": 13, "want": 13, "creation": 13, "local": 13, "project": 13, "build": 13, "docker": 13, "imag": 13, "push": 13, "dockerhub": 13, "registri": 13, "pull": 13, "kubernet": 13, "cluster": 13, "appli": 13, "manifest": 13, "readi": 13, "do": 13, "kubectl": 13, "yaml": 13, "our": 13, "reconcili": 13, "watch": 13, "action": 13, "reflect": 13, "modifi": 13, "spec": 13, "releas": 13, "doe": 13, "origin": 13, "softwar": 13, "extens": 13, "autom": 13, "human": 13, "who": 13, "follow": 13, "principl": 13, "name": 13, "concept": 13, "you": 13, "introduc": 13, "type": 13, "understand": 13, "monitor": 13, "compar": 13, "actual": 13, "match": 13, "step": 13, "simplifi": 13, "nf": 13, "pod": 13, "configmap": 13, "auto": 13, "paramet": 13, "lifecycl": 13, "5gnf": 13, "upgrad": 13, "rollback": 13, "backup": 13, "restor": 13, "chanc": 13, "failur": 13, "someth": 13, "wrong": 13, "might": 13, "restart": 13, "fail": 13, "failov": 13, "case": 13, "issu": 13, "sinc": 13, "especi": 13, "observ": 13, "expos": 13, "metric": 13, "log": 13, "alert": 13, "mesh": 13, "With": 13, "amf": 13, "smf": 13, "ausf": 13, "nrf": 13, "udm": 13, "less": 13, "prone": 13, "scalabl": 13, "decommiss": 13, "dai": 13, "balanc": 13, "util": 13, "maintain": 13, "end": 13, "tailor": 13, "fulfil": 13, "easi": 13, "fault": 13, "automat": 13, "recreat": 13, "interoper": 13, "vendor": 13, "standard": 13, "across": 13, "roll": 13, "assur": 13, "real": 13, "diagnost": 13, "proactiv": 13, "mainten": 13, "advantag": 13, "telecommun": 13, "mani": 13, "lead": 13, "cost": 13, "stand": 13, "come": 13, "sometim": 13, "That": 13, "own": 13, "behav": 13, "becaus": 13, "fit": 13, "while": 13, "still": 13, "cli": 13, "ui": 13, "structur": 13, "suit": 13, "kind": 13, "view": 13, "delet": 13, "pivot": 13, "nfv": 13, "heavili": 13, "reli": 13, "excel": 13, "platform": 13, "vnf": 13, "rout": 13, "often": 13, "rule": 13, "particularli": 13, "volum": 13, "schedul": 13, "meet": 13, "rate": 13, "wide": 13, "rang": 13, "summari": 13, "better": 13}, "objects": {}, "objtypes": {}, "objnames": {}, "titleterms": {"af_xdp": [0, 1], "hardwar": [0, 2, 6], "requir": [0, 2, 6], "compon": [0, 2], "xdp": 0, "system": 0, "packet": [0, 2, 6], "flow": [0, 2, 6], "from": [0, 2, 6], "nic": [0, 2, 6], "applic": [0, 2], "dpdk": [2, 3], "abstract": 2, "layer": 2, "kernel": 4, "bypass": 4, "mechan": 4, "sr": [5, 6], "iov": [5, 6], "vm": 6, "contain": 6, "help": 7, "ngkore": [8, 12, 13], "document": 8, "l3af": [9, 10], "integr": 10, "5g": [10, 11], "upf": 10, "architectur": 10, "about": 10, "u": 10, "core": 11, "oper": [11, 12, 13], "benefit": 13, "us": 13, "crd": 13, "cr": 13, "import": 13}, "envversion": {"sphinx.domains.c": 2, "sphinx.domains.changeset": 1, "sphinx.domains.citation": 1, "sphinx.domains.cpp": 8, "sphinx.domains.index": 1, "sphinx.domains.javascript": 2, "sphinx.domains.math": 2, "sphinx.domains.python": 3, "sphinx.domains.rst": 2, "sphinx.domains.std": 2, "sphinx.ext.intersphinx": 1, "sphinx.ext.todo": 2, "sphinx.ext.viewcode": 1, "sphinx": 57}, "alltitles": {"AF_XDP": [[0, "af-xdp"], [1, "af-xdp"]], "Hardware Requirements": [[0, "hardware-requirements"], [2, "hardware-requirements"], [6, "hardware-requirements"]], "Components of XDP System": [[0, "components-of-xdp-system"]], "Packet Flow": [[0, "packet-flow"], [2, "packet-flow"], [6, "packet-flow"]], "From NIC to the Application": [[0, "from-nic-to-the-application"], [2, "from-nic-to-the-application"]], "From Application to the NIC": [[0, "from-application-to-the-nic"], [2, "from-application-to-the-nic"]], "DPDK": [[2, "dpdk"], [3, "dpdk"]], "Components of DPDK Abstraction Layer": [[2, "components-of-dpdk-abstraction-layer"]], "Kernel Bypass Mechanisms": [[4, "kernel-bypass-mechanisms"]], "SR-IOV": [[5, "sr-iov"], [6, "sr-iov"]], "From NIC to the VM/Container": [[6, "from-nic-to-the-vm-container"]], "From VM/Container to the NIC": [[6, "from-vm-container-to-the-nic"]], "Help": [[7, "help"]], "ngKore Documentation!": [[8, "ngkore-documentation"]], "L3AF": [[9, "l3af"]], "L3AF Integration with 5G-UPF": [[10, "l3af-integration-with-5g-upf"]], "L3AF Architecture": [[10, "l3af-architecture"]], "5G UPF": [[10, "g-upf"]], "L3AF Integration with 5G UPF": [[10, "id1"]], "About Us!": [[10, "about-us"]], "5G Core Operator": [[11, "g-core-operator"]], "ngKore Operator": [[12, "ngkore-operator"], [13, "ngkore-operator"]], "Operator": [[13, "operator"]], "Benefits of Operator": [[13, "benefits-of-operator"]], "Use of Operator": [[13, "use-of-operator"]], "CRD": [[13, "crd"]], "CR": [[13, "cr"]], "Importance of CRD and CR": [[13, "importance-of-crd-and-cr"]]}, "indexentries": {}})

diff --git a/l3af/l3af.html b/l3af/l3af.html
@@ -91,12 +91,12 @@
 <h2>L3AF Architecture<a class="headerlink" href="#l3af-architecture" title="Permalink to this heading"></a></h2>
 <a class="reference internal image-reference" href="../_images/l3af-arch.png"><img alt="Alternative text" src="../_images/l3af-arch.png" style="width: 800px;" /></a>
 <ol class="arabic simple">
-<li><p><strong>User API Call</strong>: The process starts when a user sends an API call containing configuration data for the deployment of eBPF Kernel Functions (<em>KFs</em>) on the kernel, specifically at XDP and TC hooks.</p></li>
+<li><p><strong>User API Call</strong>: The process starts when a user sends an API call containing configuration data for the deployment of eBPF programs on the kernel, specifically at XDP and TC hooks.</p></li>
 <li><p><strong>Policy Formation</strong>: The configuration data from the API call is transformed into specific policies, which are then stored in a database for future use.</p></li>
 <li><p><strong>Data Retrieval by L3AFD</strong>: L3AFD, leveraging a key-value (<em>KV</em>) store, quickly retrieves the stored configuration data from the database.</p></li>
-<li><p><strong>eBPF Program Download</strong>: L3AFD downloads pre-built eBPF programs (<em>KFs</em>) from a user-configured repository (<em>eBPF Package Repository</em>). These programs are provided by a diverse community of developers and are verified prior to installation in the KF store.</p></li>
+<li><p><strong>eBPF Program Download</strong>: L3AFD downloads pre-built eBPF programs from a user-configured repository (<em>eBPF Package Repository</em>). These programs are provided by a diverse community of developers and are verified prior to installation in the eBPF store.</p></li>
 <li><p><strong>L3AFD Role</strong>: As the main component of the L3AF control plane, L3AFD manages and orchestrates multiple eBPF programs.</p></li>
-<li><p><strong>eBPF Program Loading</strong>: The L3AFD loads these eBPF programs into the kernel using the libbpf library. The file descriptors of the programs are stored in a previous KF map, keeping track of the sequence of programs that need to run in the process. The process of creating a separate space in the eBPF Maps and storing the File descriptor into it, is carried out by using Cilium eBPF library.</p></li>
+<li><p><strong>eBPF Program Loading</strong>: The L3AFD loads these eBPF programs into the kernel using the libbpf library. The file descriptors of the programs are stored in a previous eBPF map, keeping track of the sequence of programs that need to run in the process. The process of creating a separate space in the eBPF Maps and storing the File descriptor into it, is carried out by using Cilium eBPF library.</p></li>
 <li><p><strong>Program Execution</strong>: Only the first eBPF program in this sequence is visible to the NIC. The rest are invoked in sequence via a bpf_tail_call, which uses the stored file descriptors in the current program’s map.</p></li>
 <li><p><strong>Packet Processing</strong>: Each packet is sequentially processed through each eBPF program and then passed on to the network stack for further processing. Similar processing occurs at the TC hook of the network stack.</p></li>
 <li><p><strong>Packet Delivery</strong>: Finally, the processed packet is sent to the destination application for any further necessary processing.</p></li>
